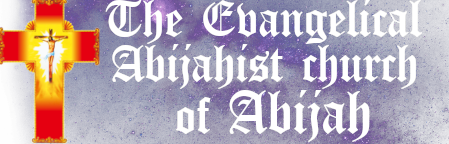
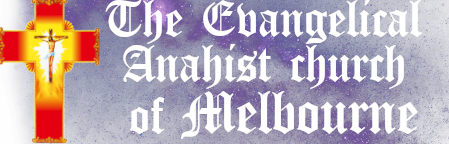
Website a-v0.14.1 +Changed name to fit thiming better +made certain elements disappear based on screen size  >added DivDis.js  +added many new photos  +ajusted background size  +changed font

Changed region(s): [[0.2494, 0.3056, 0.9354, 1.0]]

diff --git a/Index.html b/Index.html
@@ -7,21 +7,27 @@
     </head>
     <body style="margin: 0;" class="bodyBack">
         <div class="topArea">
-            <img src="Media/Images/wip.png" style="max-width: 45%; min-width: 400px; height: auto;">
-            <h1 class="alertText">-ARE YOU RAPTURE READY?-</h1>
+            <div style=" width: 80%;">
+                <img src="Media/Images/wip.png" style="max-width: 45%; min-width: 400px; height: auto;">
+                <div style="float: right; display: flex; flex-direction: column;">
+                    <p style="color: red;">sign up today!</p>
+                    <button>sign up</button>
+                </div>
+            </div>
+            <h1 class="alertText">ARE YOU RAPTURE READY?</h1>
             <p style="color: white;">
                 The question is based upon your beliefs, the answer is if those beliefs are correct. 
             </p>
         </div>
         <div style="display: flex; flex-direction: row; justify-content: center; height: 600px; margin: 0 10%;">
-            <div style="width: 30% ;">
+            <div style="width: 30% ;" id="disDiv">
                 <h1 style="color: white;">WHO ARE WE</h1>
                 <h3 style="color: white;">
                     <b>WE ARE HERE TO HELP.</b> Our Great Reborn Father Abijah Has seen the future, you may be
                     In danger if you do not head his words. The rapture is coming 
                 </h3>
             </div>
-            <iframe width="70%" height="auto" src="https://www.youtube.com/embed/KbVH2L6VuSE" title="YouTube video player" frameborder="0" allow="accelerometer; autoplay; clipboard-write; encrypted-media; gyroscope; picture-in-picture" allowfullscreen></iframe>
+            <iframe id="chngDiv" width="70%" height="auto" src="https://www.youtube.com/embed/KbVH2L6VuSE" title="YouTube video player" frameborder="0" allow="accelerometer; autoplay; clipboard-write; encrypted-media; gyroscope; picture-in-picture" allowfullscreen></iframe>
         </div>
         <hr width="80%">
         <div style="display: flex; justify-content: center;">
@@ -30,7 +36,7 @@
                 <hr width="10%">
                 <a class="link" style="color: red" href="#miniGames">MINI GAMES!!!</a>
                 <hr width="10%">
-                <a class="link" style="color: blue;" href="#readings">READINGS</a>
+                <a class="link" style="color: rgb(0, 102, 255);" href="#readings">READINGS</a>
                 <hr width="10%">
                 <a class="link" style="color: rgb(255, 0, 212);" href="#raptureRadio">RAPTURE RADIO</a>
             </nav>
@@ -40,8 +46,8 @@
             <img src="Media/Images/Screenshot 2022-05-20 at 02-07-20 website.png" id="pastorImage">
             <h1 style="text-align: center; color: white; font-size: 24px;">
                 MEET OUR VOICE OF THE VOICELESS <br>
-                PASTOR HENDERSON <br>
-                LEADER OF THE CHILDREN OF JEHOVAH <br>
+                FATHER ANAH <br>
+                LEADER OF THE CHILDREN OF GOD <br>
                 HIS MISSION IS TO GUIDE US TO HIS VISION <br>
                 THRU DROUGHT THRU DOUGHT AND DIVISION <br>
             </h1>
@@ -59,45 +65,57 @@
         </div>
         <hr width="80%">
         <div style="margin: 0 10%;">
-            <h1 class="gH" id="readings">READINGS LINKS</h1>
-            <a href="#" style="color: white;"><h2>&bull; Tips on how to live a good life under christ </h2></a>
-            <a href="#" style="color: white;"><h2>&bull; heaven, hell and obis </h2></a>
-            <a href="#" style="color: white;"><h2>&bull; Tips on how to live a good life under christ </h2></a>
-            <a href="#" style="color: white;"><h2>&bull; Father wYhl4Vy# Easter prayer </h2></a>
-            <a href="#" style="color: white;"><h2>&bull; Confession booth booking - (make a private booking with one of our highly paid pastors, recommended to ages 8 to 16)</h2></a>
+            <h1 class="gH" id="readings" style="color: rgb(0, 102, 255);">READINGS LINKS</h1>
+            <a href="#" style="color: white;"><h2>&#10013; Tips on how to live a good life under christ </h2></a>
+            <a href="#" style="color: white;"><h2>&#10013; heaven, hell and obis </h2></a>
+            <a href="#" style="color: white;"><h2>&#10013; Tips on how to live a good life under christ </h2></a>
+            <a href="#" style="color: white;"><h2>&#10013; Father wYhl4Vy# Easter prayer </h2></a>
+            <a href="#" style="color: white;"><h2>&#10013; Confession booth booking - (make a private booking with one of our highly paid pastors, recommended to ages 8 to 16)</h2></a>
         </div>
         <hr width="80%">
-        <div style="margin: 0 10%;">
-            <div><img src="Media/Images/Screenshot 2022-05-23 at 01-12-08 website.png" class="imageHack" width="50%" height="400px"></div>
-                <p style="color: white;">What took you so long to come here today my child? <br>
-                    Confessions sitting heavy on my conscious <br>
-                    Most the time I apologise i be flexing its obnoxious <br>
-                    Its toxic but pointing it out aint stopping it<br>
-                    Pretentious pennys 2 cents worth<br>
-                    Rapture happened but it's the same earth<br>
-                    I can't express enough in 1 verse<br>
-                    Tried reading the bible got bored and rolled a herb<br>
-                    Wasted a day apon weeks filled with feeling worse<br>
-                    If my lifestyle and mindstate both align with sin and greed<br>
-                    Maybe Heaven just ain't for me<br></p>
-                <div style="z-index: 2;">
-                    <p style="color: white;">
-                        Profit off of Coughing smoking product hammering in the coffin<br>
-                        The voiceless become voiceless when you voice it for em<br>
-                        The void is ever growing the line getting thinner<br>
-                        You cant show em poems he a natural born sinner<br> 
-                        Can't make it to dinner<br>
-                        At a sesh spot got caught the cops fought but we legged it<br>
-                        And we made it<br>
-                        Entertained it, i knew the relationship was over when we became meta<br>
-                        Or maybe when i texted that blond girl and met up im fed up<br>
-                        My conscious is cautious of the unknown<br>
-                        My faith is bribed by temptation of the throne<br>
-                        I'm only loyal to the person in control<br>
-                        and that's the person i be with when i'm alone<br>
-                        Thats he
-                    </p>
+        <h1 class="gH" style="color: red; text-align: center;">Words On Our MISSION</h1>
+        <div style="margin: 0 10%; display: flex; flex-direction: row;">
+            <div style="width: 50%;" id="chngDivI">
+                 <p style="color: white; font-size: 20px;">
+                    What took you so long to come here today my child? <br>
+                     Confessions sitting heavy on my conscious <br>
+                     Most the time I apologise i be flexing its obnoxious <br>
+                     Its toxic but pointing it out aint stopping it<br>
+                     Pretentious pennys 2 cents worth<br>
+                     Rapture happened but it's the same earth<br>
+                     I can't express enough in 1 verse<br>
+                     Tried reading the bible got bored and rolled a herb<br>
+                     Wasted a day apon weeks filled with feeling worse<br>
+                     If my lifestyle and mindstate both align with sin and greed<br>
+                     Maybe Heaven just ain't for me<br>
+                     <br>
+                     Profit off of Coughing smoking product hammering in the coffin<br>
+                     The voiceless become voiceless when you voice it for em<br>
+                     The void is ever growing the line getting thinner<br>
+                     You cant show em poems he a natural born sinner<br> 
+                     Can't make it to dinner<br>
+                     At a sesh spot got caught the cops fought but we legged it<br>
+                     And we made it<br>
+                     Entertained it, i knew the relationship was over when we became meta<br>
+                     Or maybe when i texted that blond girl and met up im fed up<br>
+                     My conscious is cautious of the unknown<br>
+                     My faith is bribed by temptation of the throne<br>
+                     I'm only loyal to the person in control<br>
+                     and that's the person i be with when i'm alone<br>
+                     Thats he
+                 </p>
+            </div>
+            <div id="disDivI" style="width: 50%;">
+                <div style="display: flex; flex-direction: column; text-align: center; align-items: center; justify-content: center; " >
+                    <img src="Media/Images/campelj.jpg" alt="Pastor Campelj" style="width: 50%;  margin: 0; padding: 0;">
+                    <h2 style="color: white;">Pastor Campelj</h2>
+                    <i style="color: white; font-size: medium;">
+                        Shepherd of purgatory<br>
+                        guide of lost souls <br>
+                        july 1984 - january 2022
+                    </i>
                 </div>
+            </div>
         </div>
         <hr width="80%">
         <div style="margin: 0 10%;">
@@ -111,7 +129,5 @@
     <script src="jquery-3.6.0.min.js"></script>
     <script src="Javascript/ImgChange.js"></script>
     <script src="baffle.min.js"></script>
-    <script>
-        
-    </script>
+    <script src="Javascript/DivDis.js"></script>
 </html>

diff --git a/Css/main.css b/Css/main.css
@@ -1,8 +1,8 @@
 .bodyBack {
     background-image: url(../Media/Images/background.jpg);
-    background-size: 64px 64px;
+    background-size: 128px 128px;
     background-repeat: repeat;
-    animation: backgroundScroll 20s linear infinite;
+    animation: backgroundScroll 30s linear infinite;
 }
 .alertText {
     color: red; 
@@ -12,7 +12,7 @@
 .gH {
     color: white;
     text-align: center;
-    text-decoration: underline dotted;
+    text-decoration: underline ;
 }
 .topArea {
     display: flex;
@@ -39,10 +39,19 @@
     position: absolute;
     margin: 10px 50px;
 }
+@media only screen and (max-width: 400px) {
+    .Disappear {
+      display: none;
+    }
+  }
+/*fonts*/
+body {
+    font-family: Garamond, serif;
+  }
 /*animations*/
 @keyframes backgroundScroll {
     0% {background-position: 0 0px;}
-    100% {background-position: 0 64px;}
+    100% {background-position: 0 128px;}
 }
 @keyframes blink {
     50% {

diff --git a/Javascript/ImgChange.js b/Javascript/ImgChange.js
@@ -3,10 +3,11 @@ var delay = 3000;
 
 image.addEventListener('click', function() {
     image.src = "./Media/Images/pastor_creepy.jpg"
-    image.addEventListener('click', function() {
-        image.src = "./Media/Images/pastor_creepy2.jpg"
-    })
-    
+    setTimeout(function () {
+        image.addEventListener('mouseenter', function() {
+            image.src = "./Media/Images/pastor_creepy2.jpg"
+        })
+    } ,5000)
 })
 image.addEventListener('mouseout', function() {
     image.src = "./Media/Images/Screenshot 2022-05-20 at 02-07-20 website.png"

diff --git a/Javascript/DivDis.js b/Javascript/DivDis.js
@@ -1,0 +1,9 @@
+var width = $( window ).width();
+console.log(width);
+if(width < 600)
+{
+   document.getElementById('disDiv').setAttribute('style', 'width:50%; display:none');
+   document.getElementById('disDivI').setAttribute('style', 'width:50%; display:none');
+   document.getElementById('chngDiv').setAttribute('style', 'width: 100%; text-align:center');
+   document.getElementById('chngDivI').setAttribute('style', 'width: 100%; text-align:center');
+}
